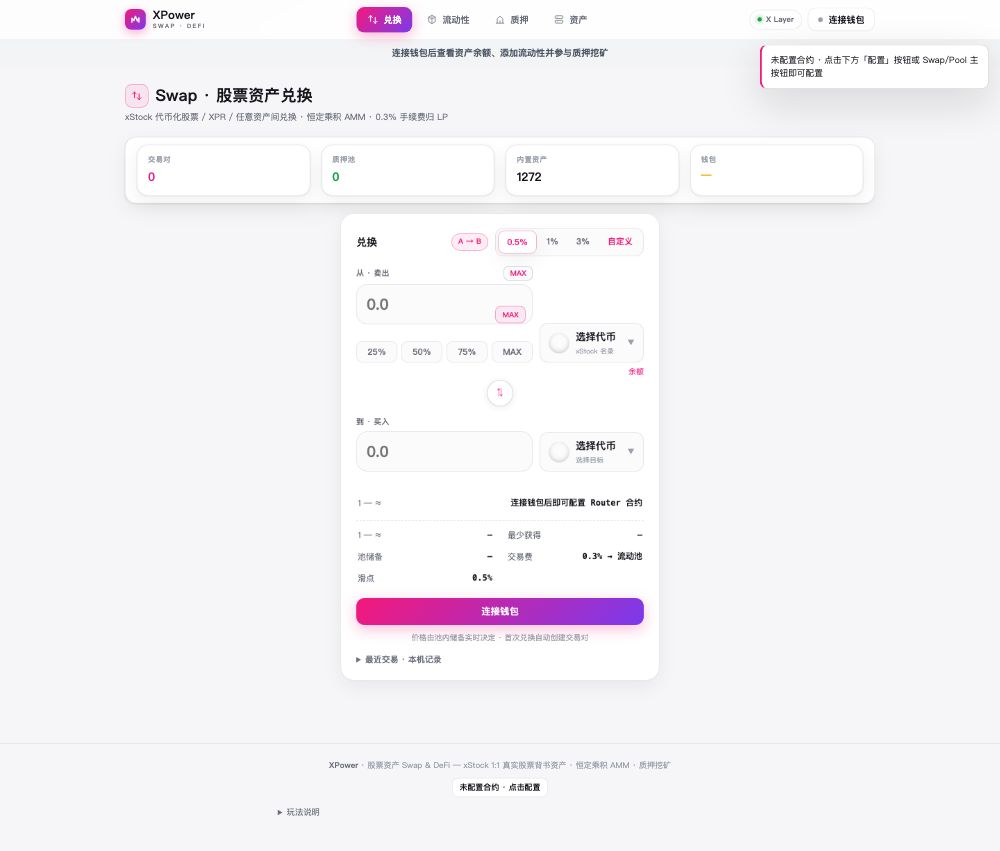
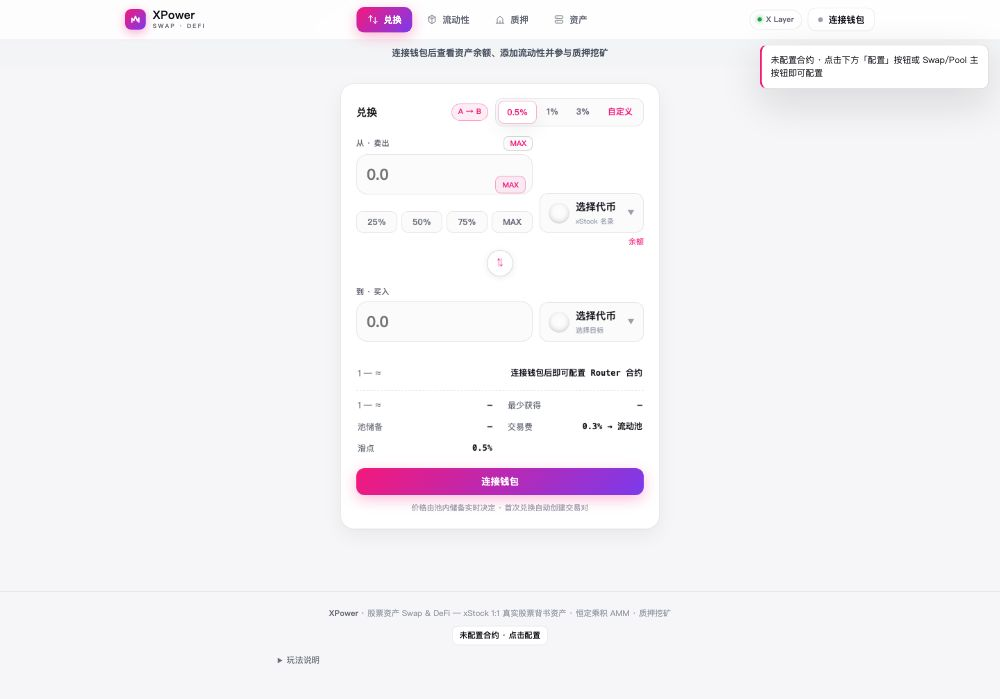
兑换页精简为单卡：移除页头/统计条/最近交易折叠区

diff --git a/XPower Swap DApp.html b/XPower Swap DApp.html
@@ -291,11 +291,6 @@ input[type=text]:focus,input[type=number]:focus,select:focus,textarea:focus{outl
 <main>
   <!-- ===== Swap ===== -->
   <section class="view" id="view-swap">
-    <div class="pagehead">
-      <div><h1><span class="ico"><svg width="16" height="16" viewBox="0 0 24 24" fill="none" stroke="currentColor" stroke-width="2" stroke-linecap="round" stroke-linejoin="round"><path d="M7 16V4M7 4L3 8M7 4L11 8"/><path d="M17 8V20M17 20L13 16M17 20L21 16"/></svg></span> Swap · 股票资产兑换</h1>
-      <p>xStock 代币化股票 / XPR / 任意资产间兑换 · 恒定乘积 AMM · 0.3% 手续费归 LP</p></div>
-    </div>
-    <div class="stats" id="swapStats"></div>
     <div class="swap-center">
       <div class="swap-card card-lift">
         <div class="swap-head">
@@ -342,7 +337,6 @@ input[type=text]:focus,input[type=number]:focus,select:focus,textarea:focus{outl
         <div id="swapErr" class="errbox"></div>
         <button class="btn primary wide" id="btnSwap" style="margin-top:14px" onclick="swapCta()">兑换</button>
         <div style="text-align:center;font-size:11px;color:var(--faint);margin-top:10px">价格由池内储备实时决定 · 首次兑换自动创建交易对</div>
-        <details style="margin-top:12px;font-size:12px"><summary style="cursor:pointer;color:var(--dim);font-weight:700;user-select:none">最近交易 · 本机记录</summary><div id="txHist" style="margin-top:6px"></div></details>
       </div>
       </section>
 
